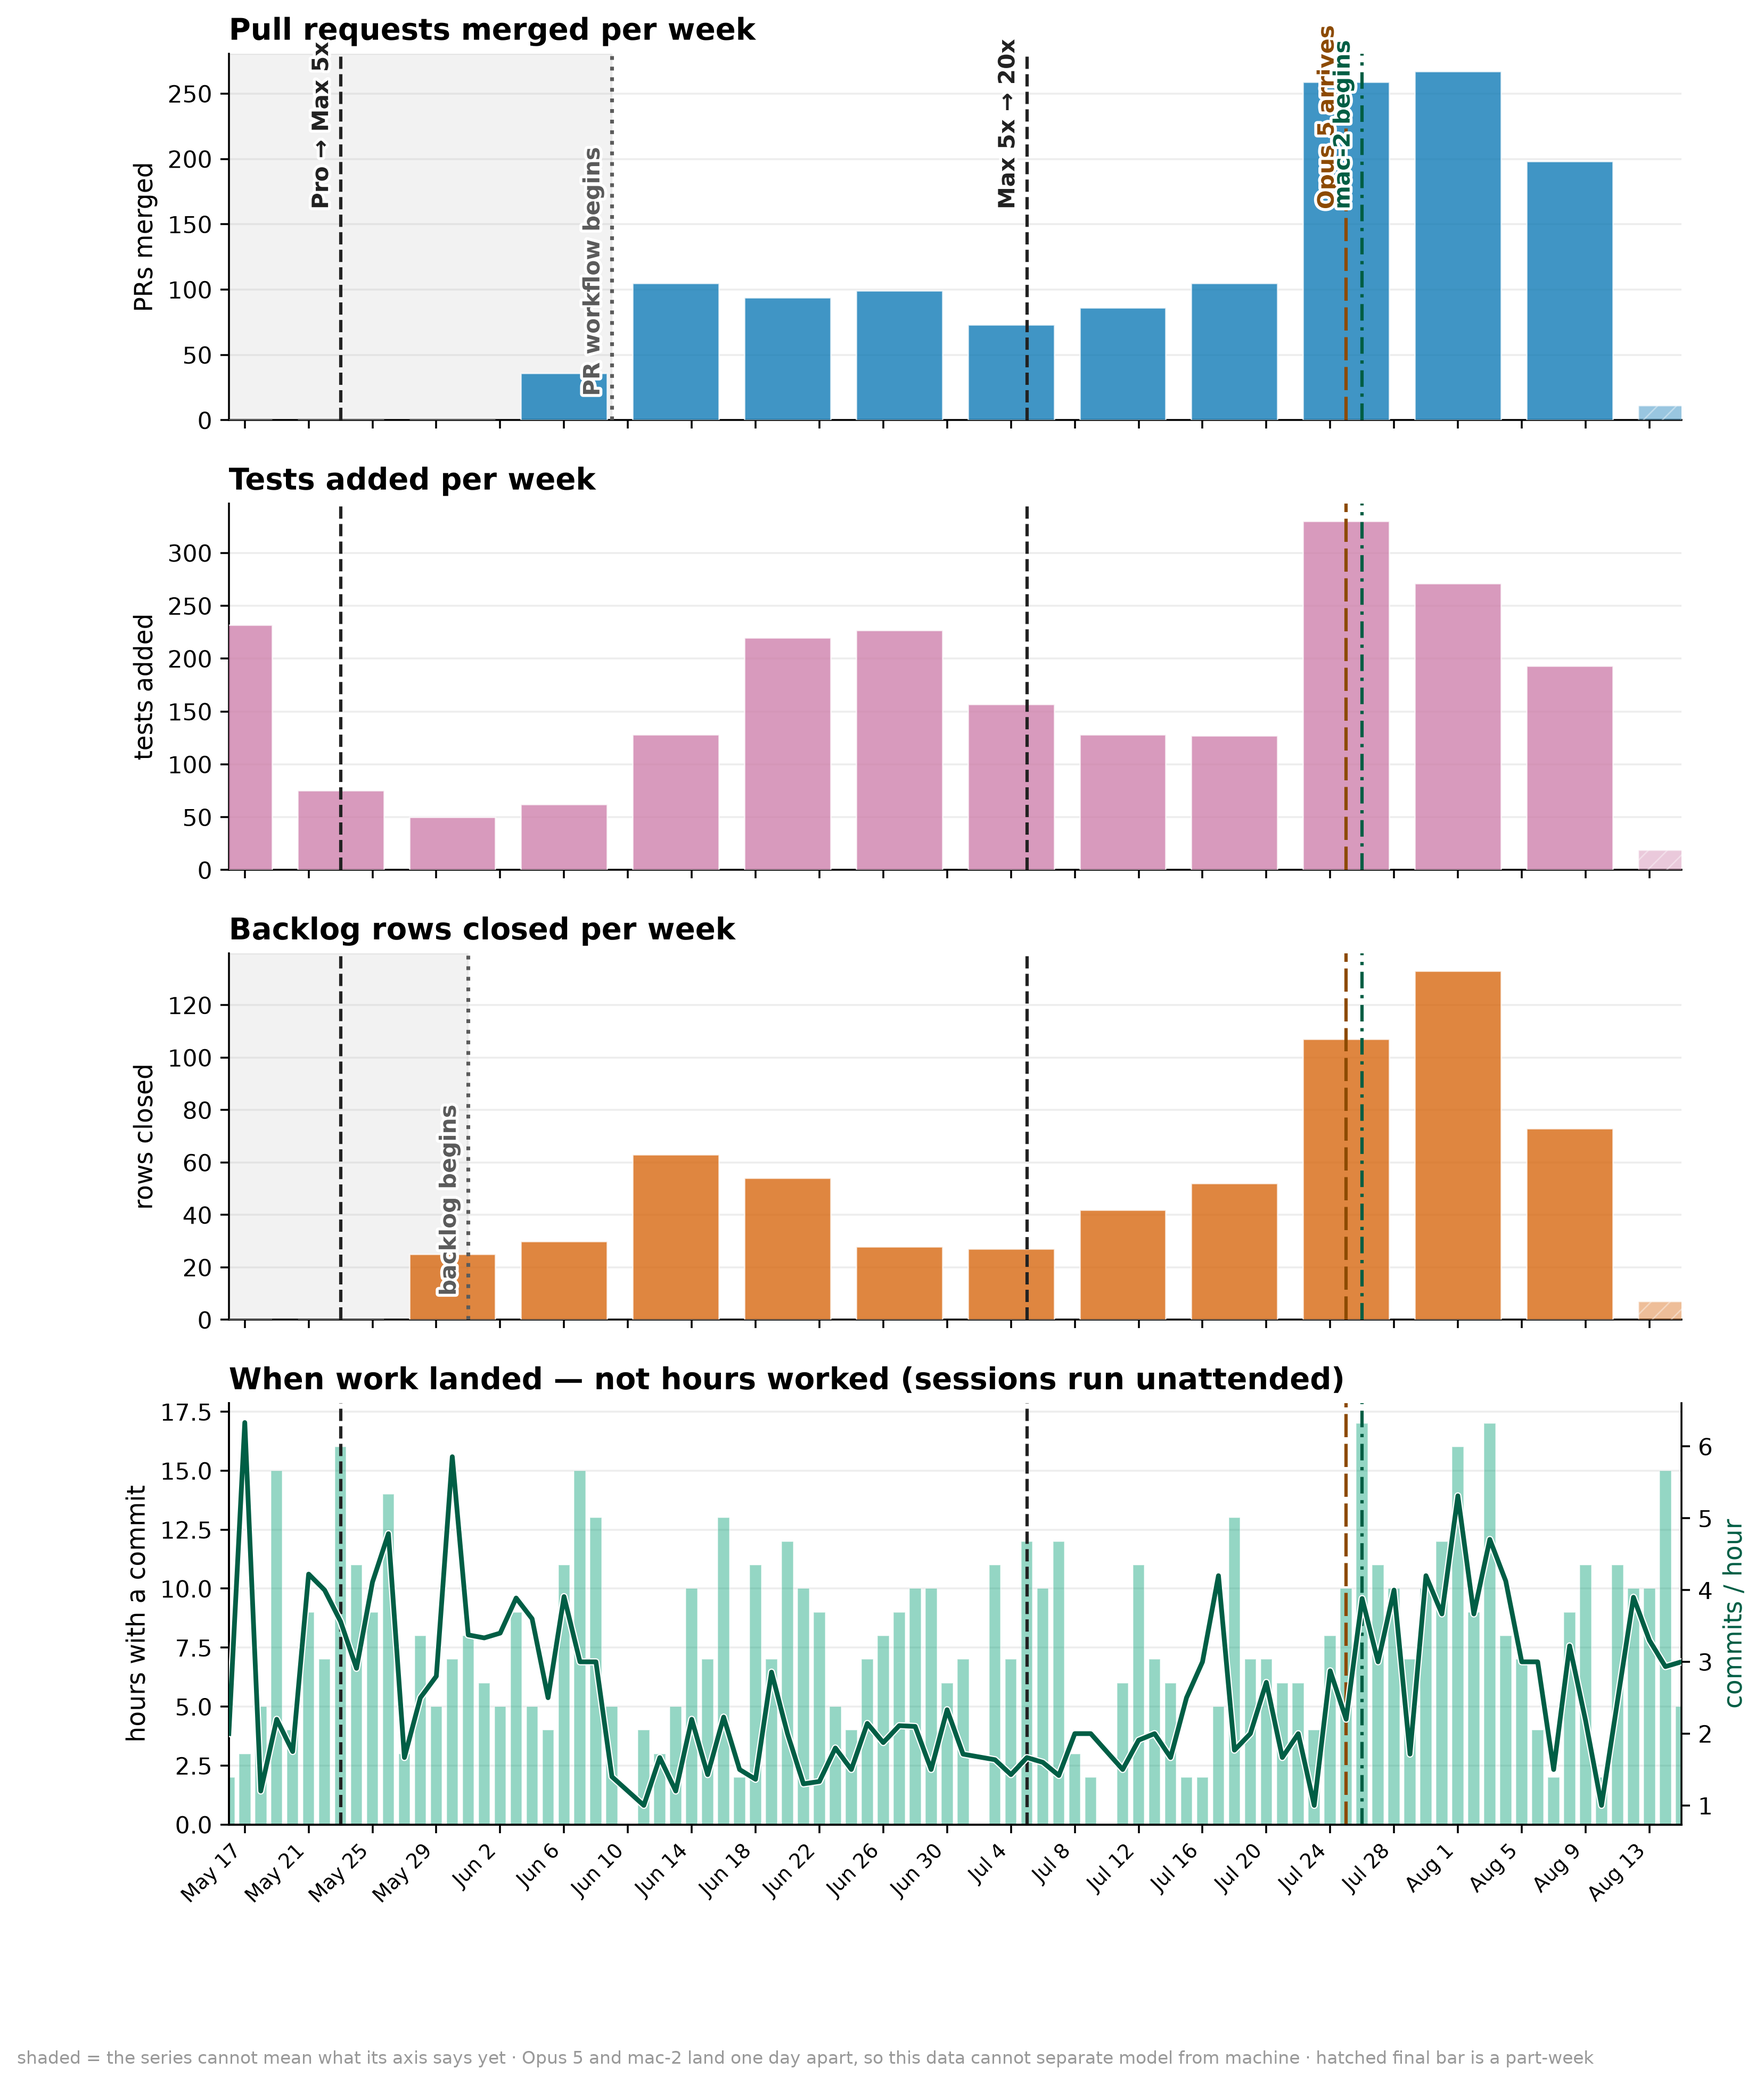
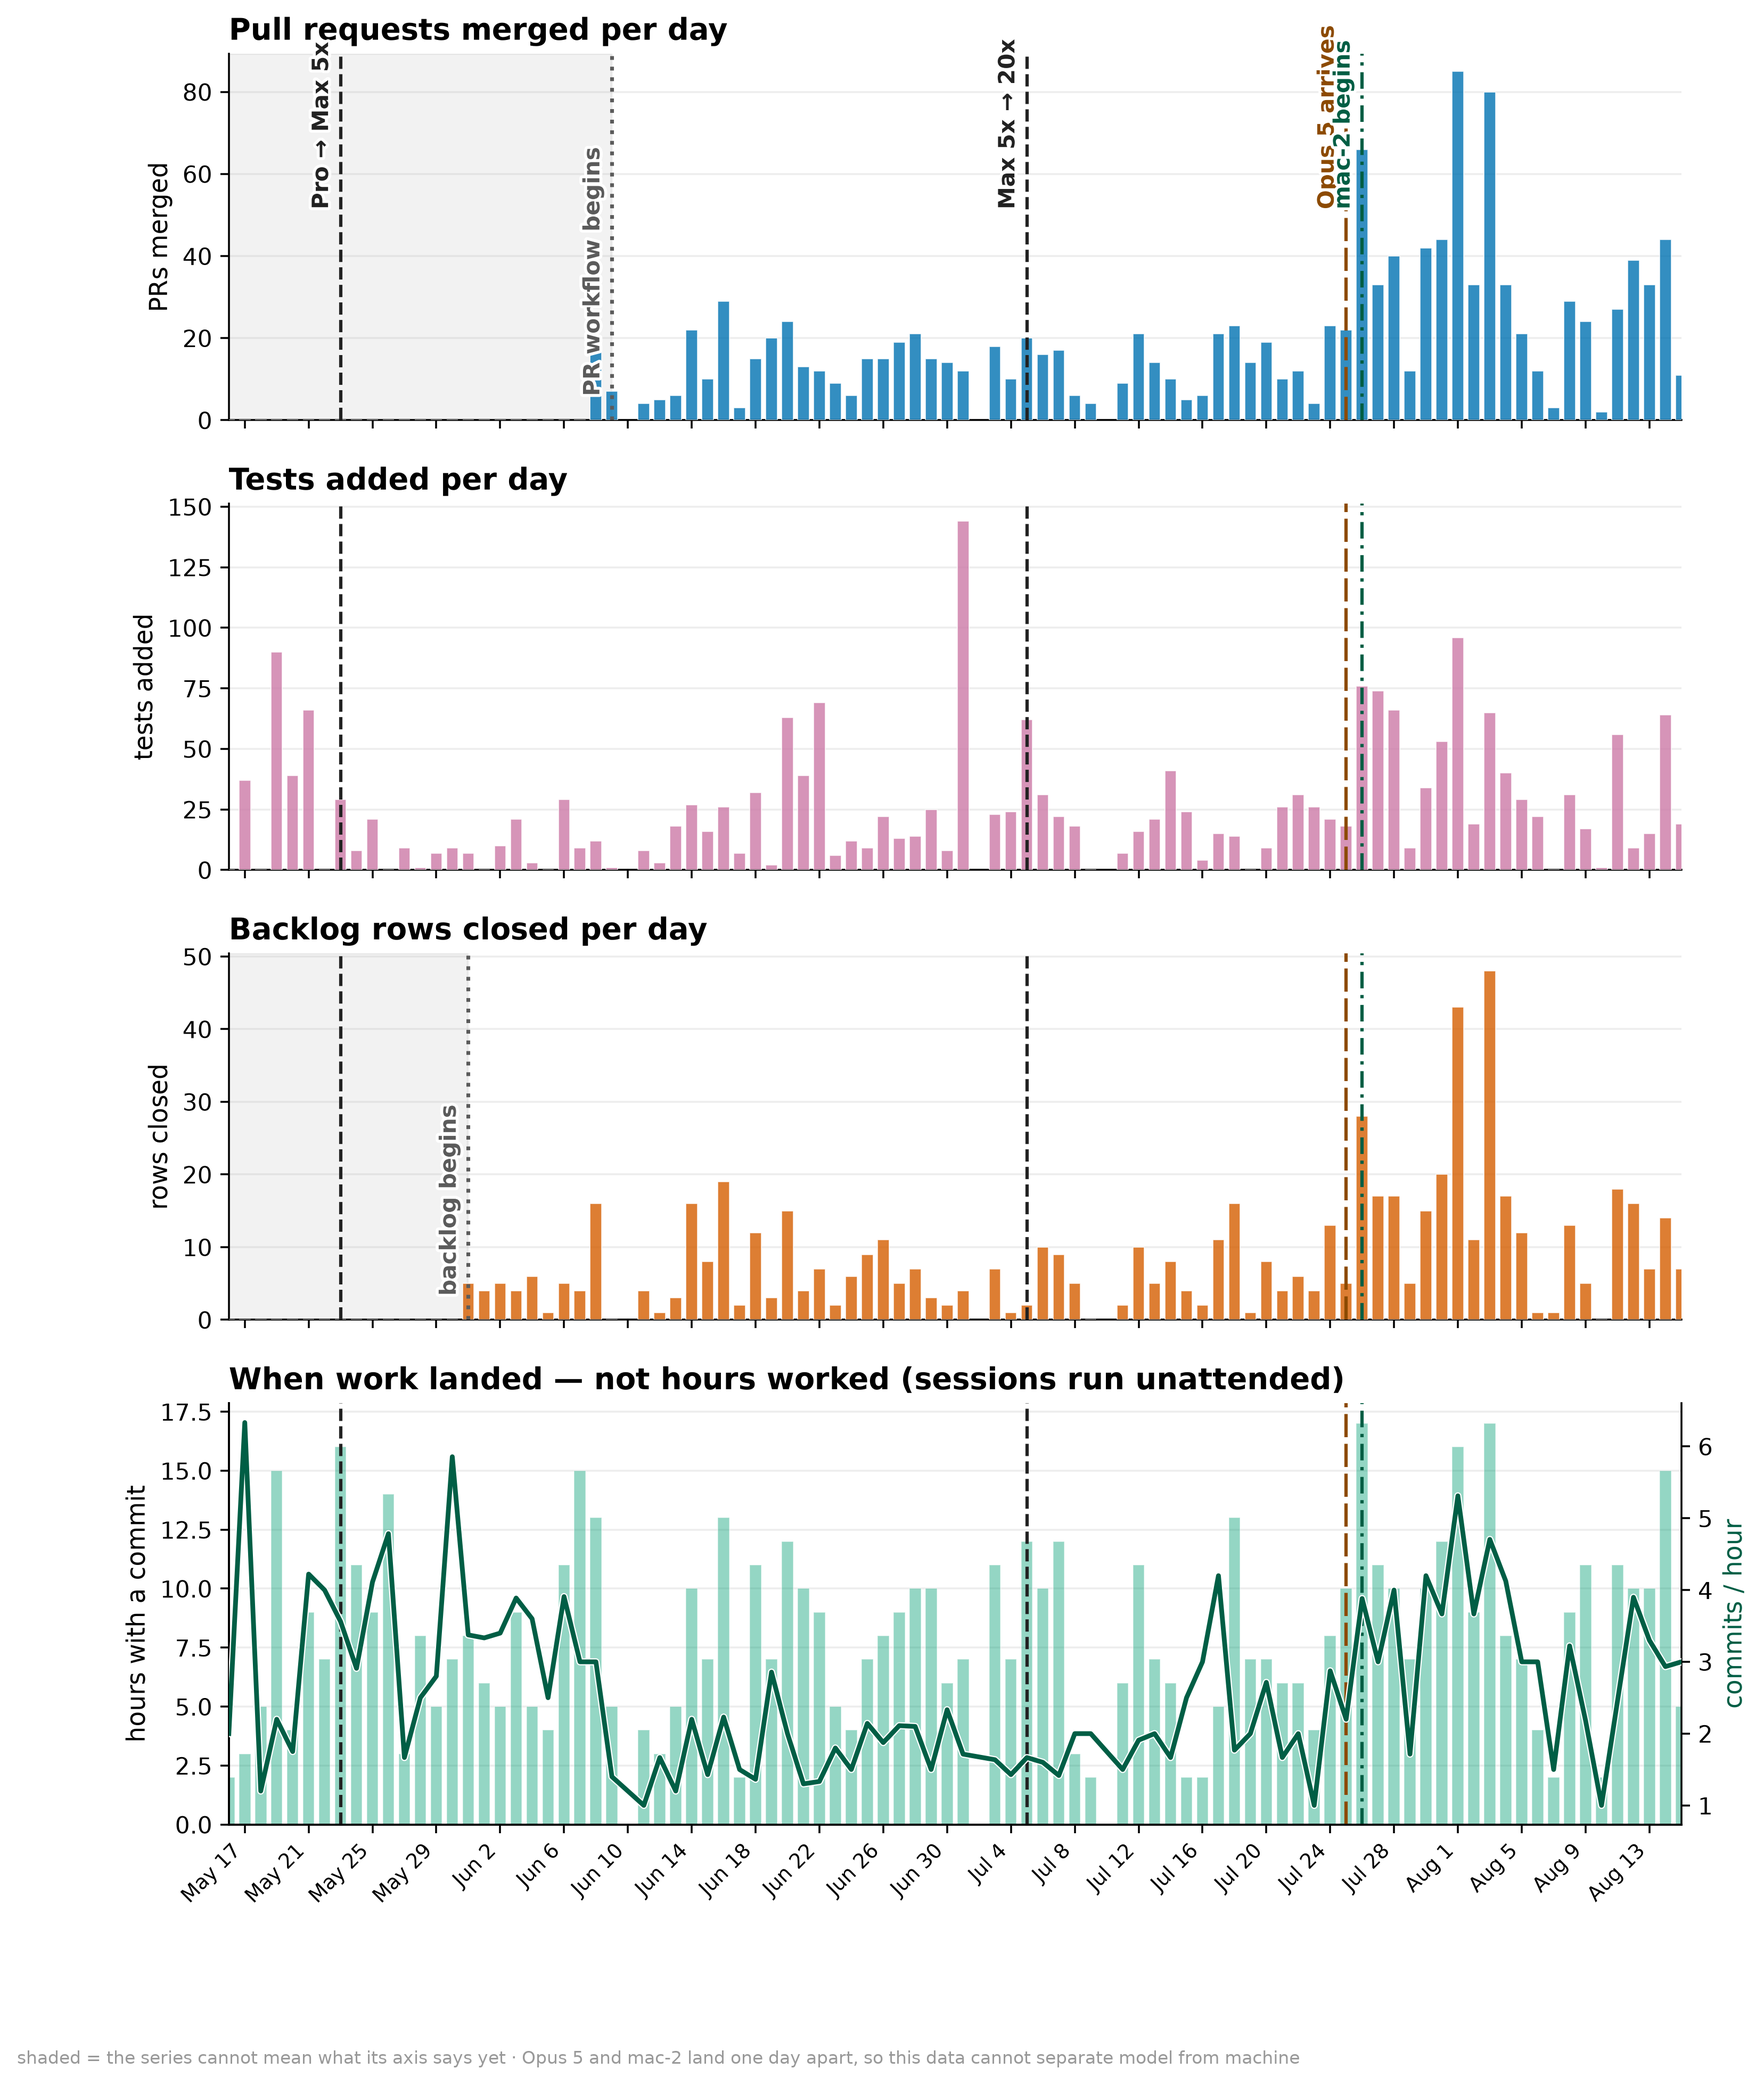
fix(metrics): draw the velocity panels per day, matching every other chart
Weekly bars were the odd ones out here: tokens_by_model, token_anatomy and
parallel_sessions are all daily. They also cost the reader the thing the chart is
for, because a bin wide enough to hold both July events hides that Opus 5 and
mac-2 are one day apart, and the trailing part-week needed hatching to stop a
3-day bar reading as a collapse. Per day, neither problem exists.

Daily resolution also restores detail the bins smoothed away: the August ramp
peaks at 85 and 80 PRs in a day, which a weekly total renders as one bar.

diff --git a/claude-usage/make_charts.py b/claude-usage/make_charts.py
@@ -856,7 +856,6 @@ def chart_velocity():
     if not git or "prs" not in next(iter(git.values())):
         return
     days = sorted(git)
-    start = dparse(days[0])
 
     def delta(col):
         out, prev = {}, 0
@@ -868,21 +867,10 @@ def chart_velocity():
 
     d_prs, d_tests, d_queue, d_commits = (delta(c) for c in ("prs", "tests", "queue_closed", "commits"))
 
-    # Weekly bins from project day 1, so the bars line up with the day-7/14/21
-    # guides the other charts mark.
-    bins = {}
-    for d in days:
-        k = start + timedelta(days=7 * ((dparse(d) - start).days // 7))
-        b = bins.setdefault(k, {"prs": 0, "tests": 0, "queue": 0})
-        b["prs"] += d_prs[d]
-        b["tests"] += d_tests[d]
-        b["queue"] += d_queue[d]
-    bxs = sorted(bins)
-    # The last bin is short whenever the snapshot doesn't land on a week boundary,
-    # and a 3-day bar beside 7-day ones reads as a collapse. Hatched rather than
-    # dropped, the same trade the estimated bars make elsewhere.
-    partial = (dparse(days[-1]) - bxs[-1]).days + 1 < 7
-
+    # Per day, matching every other chart here. Weekly bars smooth the series into
+    # something easier to read and lose what the reader needs: a day is the unit
+    # the events are dated in, and a bin wide enough to hold two of them hides that
+    # Opus 5 and mac-2 are a day apart.
     hours = [int(git[d].get("active_hours") or 0) for d in days]
     dxs = [dparse(d) for d in days]
     per_hour = [d_commits[d] / h if h else 0 for d, h in zip(days, hours)]
@@ -892,16 +880,13 @@ def chart_velocity():
     a1, a2, a3, a4 = axes
 
     panels = [
-        (a1, "prs", OI["blue"], "PRs merged", "Pull requests merged per week"),
-        (a2, "tests", OI["purple"], "tests added", "Tests added per week"),
-        (a3, "queue", OI["vermillion"], "rows closed", "Backlog rows closed per week"),
+        (a1, d_prs, OI["blue"], "PRs merged", "Pull requests merged per day"),
+        (a2, d_tests, OI["purple"], "tests added", "Tests added per day"),
+        (a3, d_queue, OI["vermillion"], "rows closed", "Backlog rows closed per day"),
     ]
-    for ax, key, col, ylab, title in panels:
-        bars = ax.bar(bxs, [bins[b][key] for b in bxs], width=5.4, color=col, alpha=0.75,
-                      edgecolor="white", linewidth=0.6, zorder=3)
-        if partial:
-            bars[-1].set_hatch("///")
-            bars[-1].set_alpha(0.4)
+    for ax, series, col, ylab, title in panels:
+        ax.bar(dxs, [series[d] for d in days], width=0.72, color=col, alpha=0.8,
+               edgecolor="white", linewidth=0.4, zorder=3)
         ax.set_ylabel(ylab, fontsize=10.5)
         ax.set_title(title, fontsize=12.5, fontweight="bold", loc="left")
         ax.grid(axis="y", alpha=0.22)
@@ -951,11 +936,10 @@ def chart_velocity():
     a4.xaxis.set_major_formatter(mdates.DateFormatter("%b %-d"))
     a4.xaxis.set_major_locator(mdates.DayLocator(interval=4))
     plt.setp(a4.get_xticklabels(), rotation=45, ha="right", fontsize=8.5)
-    note = ("shaded = the series cannot mean what its axis says yet · "
-            "Opus 5 and mac-2 land one day apart, so this data cannot separate model from machine")
-    if partial:
-        note += " · hatched final bar is a part-week"
-    fig.text(0.012, 0.006, note, fontsize=7.5, color="#999")
+    fig.text(0.012, 0.006,
+             "shaded = the series cannot mean what its axis says yet · "
+             "Opus 5 and mac-2 land one day apart, so this data cannot separate model from machine",
+             fontsize=7.5, color="#999")
     save(fig, "velocity")
 
 

diff --git a/claude-usage/README.md b/claude-usage/README.md
@@ -159,7 +159,7 @@ Its total height at any date *is* the divisor above, so "a line" is shown, not j
 The grey dotted line on 2026-08-09 is the sentence-per-line reflow, which is why the Docs band notches down under it and the ratio above steps up: the same words on 18.6k fewer lines cost the same tokens, so roughly 200 of the ratio's climb past 2,400 is the reformat rather than the work.
 
 ### Work shipped, on proxies a reformat can't move
-![PRs merged, tests added, backlog rows closed per week, and when work landed](charts/velocity.png) Tokens are an input and lines carry the reflow, so neither is a velocity series.
+![PRs merged, tests added, backlog rows closed per day, and when work landed](charts/velocity.png) Tokens are an input and lines carry the reflow, so neither is a velocity series.
 These four are immune to both: **PRs merged**, **tests added**, **backlog rows closed**, and the spread of the day work landed across.
 
 Read the top three together and the plan upgrade disappears: Max 5x to 20x on 2026-07-05 raised the ceiling and moved nothing (tests/day 20.3 → 19.4, Go lines/day 1,058 → 963).

diff --git a/docs/plan/velocity-proxies.md b/docs/plan/velocity-proxies.md
@@ -97,10 +97,12 @@ Walking `docs/STATUS.md` history must be **one** `git log -p` call, not a `git s
 
 ### 2. A `velocity` chart, four panels on one timeline
 
-1. **PRs merged per week**, as bars.
+Per day, not per week: every other chart here is daily, and a bin wide enough to hold both July events hides that they are one day apart.
+
+1. **PRs merged per day**, as bars.
    The pre-2026-06-09 region is shaded and labelled as no-PR-workflow rather than drawn as zero.
-2. **Tests added per week**, as bars, full project.
-3. **Queue rows closed per week**, as bars, shaded before 2026-05-31.
+2. **Tests added per day**, as bars, full project.
+3. **Queue rows closed per day**, as bars, shaded before 2026-05-31.
 4. **When work landed**: hours-with-a-commit per day as bars, with commits-per-such-hour as a line over them, the idiom `parallel_sessions` already uses for a mean over a peak.
    Titled for what it measures, never as hours worked.
 
